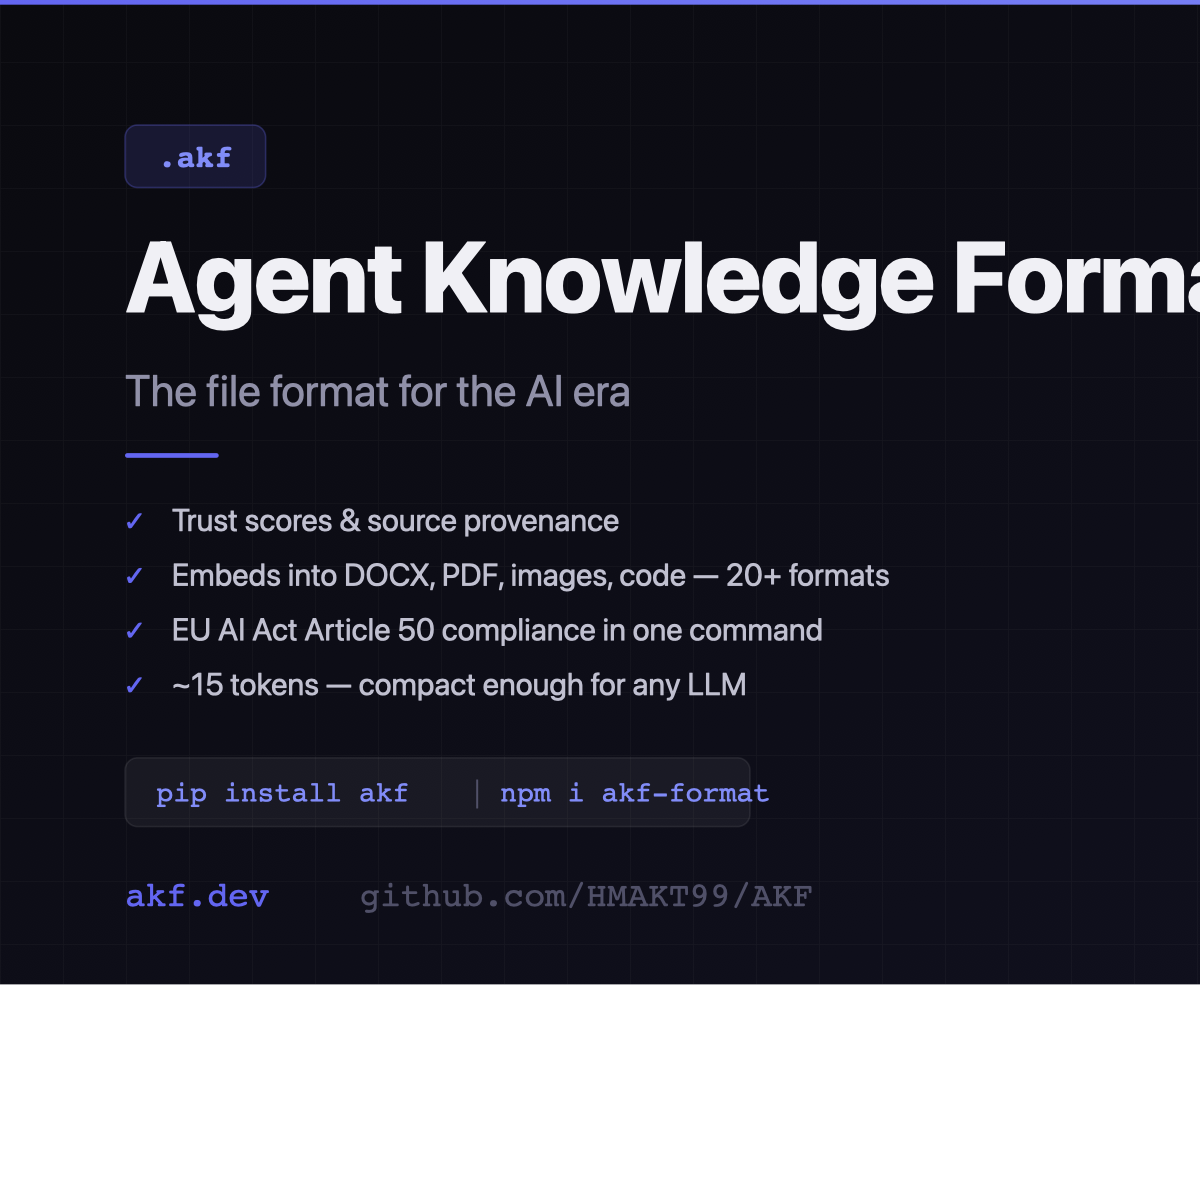
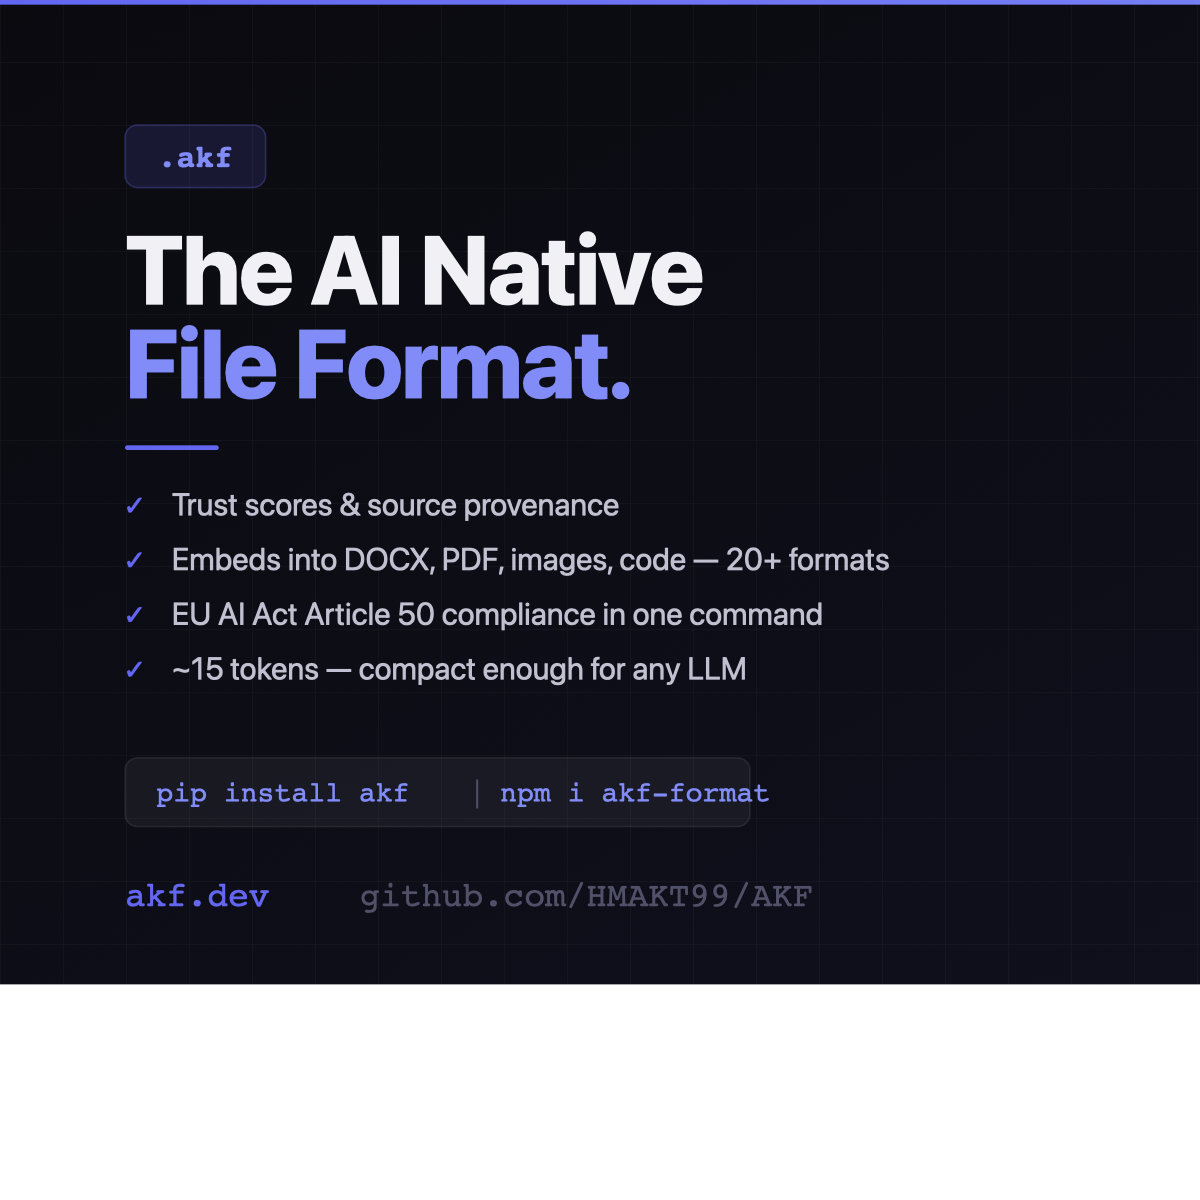
Rebrand positioning to 'The AI Native File Format'
- Hero: "The AI native file format" replaces "The file format for the AI era"
- README: Lead with "AI Native File Format", keep "EXIF for AI" as explainer
- OG image: Updated title to "The AI Native File Format"
- Meta tags: Updated title/description across OG, Twitter, structured data
- GitHub description updated

Changed region(s): [[0.0925, 0.185, 1.0, 0.3392], [0.0925, 0.37, 0.74, 0.5858], [0.0925, 0.555, 0.1233, 0.5858]]

diff --git a/site/index.html b/site/index.html
@@ -3,16 +3,16 @@
   <head>
     <meta charset="UTF-8" />
     <meta name="viewport" content="width=device-width, initial-scale=1.0" />
-    <title>AKF — Agent Knowledge Format</title>
-    <meta name="description" content="Trust metadata for every file AI touches. AKF is a lightweight, open format for trust scores, provenance, and security classification." />
+    <title>AKF — The AI Native File Format</title>
+    <meta name="description" content="The AI native file format. Trust scores, provenance, and compliance metadata that embed into every file your AI touches." />
 
     <!-- Favicon -->
     <link rel="icon" type="image/svg+xml" href="/favicon.svg" />
 
     <!-- Open Graph -->
     <meta property="og:type" content="website" />
-    <meta property="og:title" content="AKF — EXIF for AI" />
-    <meta property="og:description" content="Trust metadata for every file AI touches. ~15 tokens of JSON. Embeds into DOCX, PDF, images, code. EU AI Act compliant. pip install akf" />
+    <meta property="og:title" content="AKF — The AI Native File Format" />
+    <meta property="og:description" content="The AI native file format. Trust scores, provenance, and compliance metadata that embed into every file your AI touches. pip install akf" />
     <meta property="og:image" content="https://akf.dev/og-image.png" />
     <meta property="og:image:width" content="1200" />
     <meta property="og:image:height" content="630" />
@@ -22,8 +22,8 @@
 
     <!-- Twitter Card -->
     <meta name="twitter:card" content="summary_large_image" />
-    <meta name="twitter:title" content="AKF — EXIF for AI" />
-    <meta name="twitter:description" content="Trust metadata for every file AI touches. ~15 tokens of JSON. Embeds into DOCX, PDF, images, code. EU AI Act compliant." />
+    <meta name="twitter:title" content="AKF — The AI Native File Format" />
+    <meta name="twitter:description" content="The AI native file format. Trust scores, provenance, and compliance metadata that embed into every file your AI touches." />
     <meta name="twitter:image" content="https://akf.dev/og-image.png" />
 
     <!-- Fonts -->
@@ -39,8 +39,8 @@
     {
       "@context": "https://schema.org",
       "@type": "SoftwareSourceCode",
-      "name": "AKF — Agent Knowledge Format",
-      "description": "Trust metadata for every file AI touches. AKF is a lightweight, open format for trust scores, provenance, and security classification of AI-generated content.",
+      "name": "AKF — The AI Native File Format",
+      "description": "The AI native file format. Trust scores, provenance, and compliance metadata that embed into every file your AI touches.",
       "url": "https://akf.dev",
       "codeRepository": "https://github.com/HMAKT99/AKF",
       "programmingLanguage": ["Python", "TypeScript"],

diff --git a/site/src/components/Hero.tsx b/site/src/components/Hero.tsx
@@ -78,13 +78,13 @@ export default function Hero() {
         </div>
 
         <h1 className="text-4xl sm:text-5xl lg:text-6xl font-bold tracking-tight leading-[1.1]">
-          The file format for
+          The AI native
           <br />
-          <span className="text-accent">the AI era.</span>
+          <span className="text-accent">file format.</span>
         </h1>
 
         <p className="mt-6 text-lg sm:text-xl text-text-secondary max-w-2xl mx-auto">
-          Install once — trust scores, evidence, and provenance embed natively into Office docs, PDFs, images, and code. Zero friction after setup.
+          Trust scores, provenance, and compliance metadata that embed natively into every file your AI touches — DOCX, PDF, images, and code.
         </p>
 
         {/* 3-step workflow */}

diff --git a/README.md b/README.md
@@ -12,12 +12,12 @@ _akf: '{"v":"1.0","claims":[{"c":"Trust metadata for README.md","t":0.7,"id":"19
   <img src="https://img.shields.io/badge/license-MIT-green?style=flat-square" />
 </p>
 
-<h1 align="center">AKF — Agent Knowledge Format</h1>
+<h1 align="center">AKF — The AI Native File Format</h1>
 
 <p align="center">
-  <strong>The file format for the AI era.</strong><br/>
-  Trust scores · Source provenance · Security classification · Compliance readiness<br/>
-  Embeds natively into DOCX, PDF, XLSX, images, code, and all major formats.
+  <strong>Trust scores · Source provenance · Security classification · Compliance readiness</strong><br/>
+  Embeds natively into DOCX, PDF, XLSX, images, code, and all major formats.<br/>
+  Think EXIF for AI — ~15 tokens of JSON that travel with your files.
 </p>
 
 <p align="center">
@@ -37,7 +37,7 @@ _akf: '{"v":"1.0","claims":[{"c":"Trust metadata for README.md","t":0.7,"id":"19
 
 ## What is AKF?
 
-AKF is to AI-generated content what **EXIF is to photos**. Every file that AI touches should carry:
+AKF is the **AI native file format** — every file that AI touches should carry:
 
 - **Trust scores** — How confident is this claim? (0–1)
 - **Source provenance** — Where did it come from? (SEC filing → analyst → AI agent)
